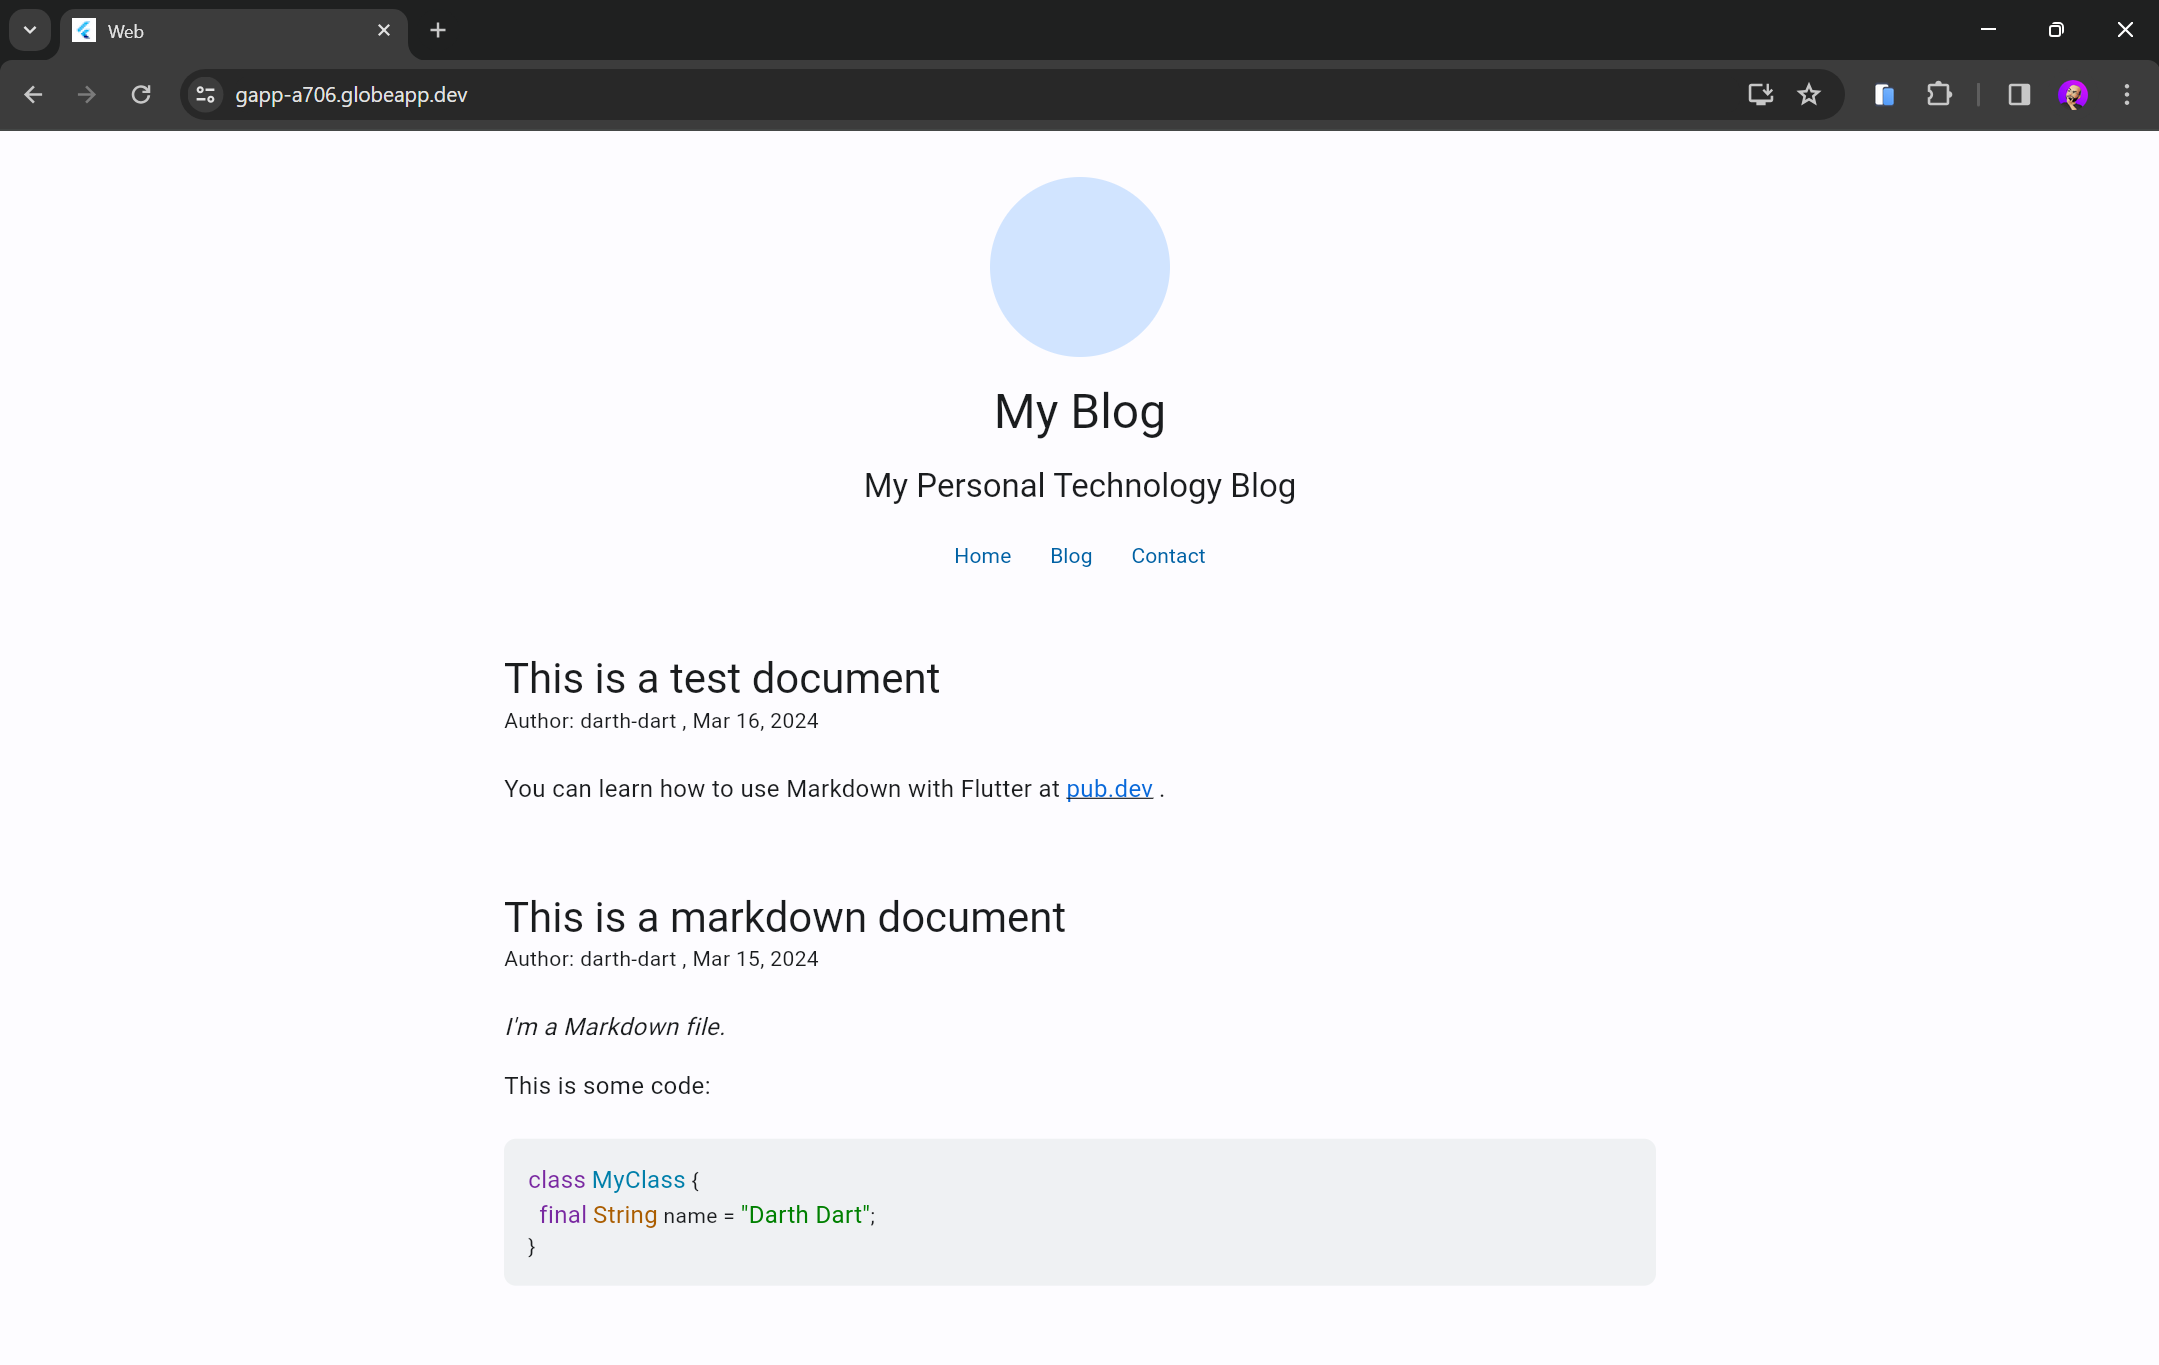
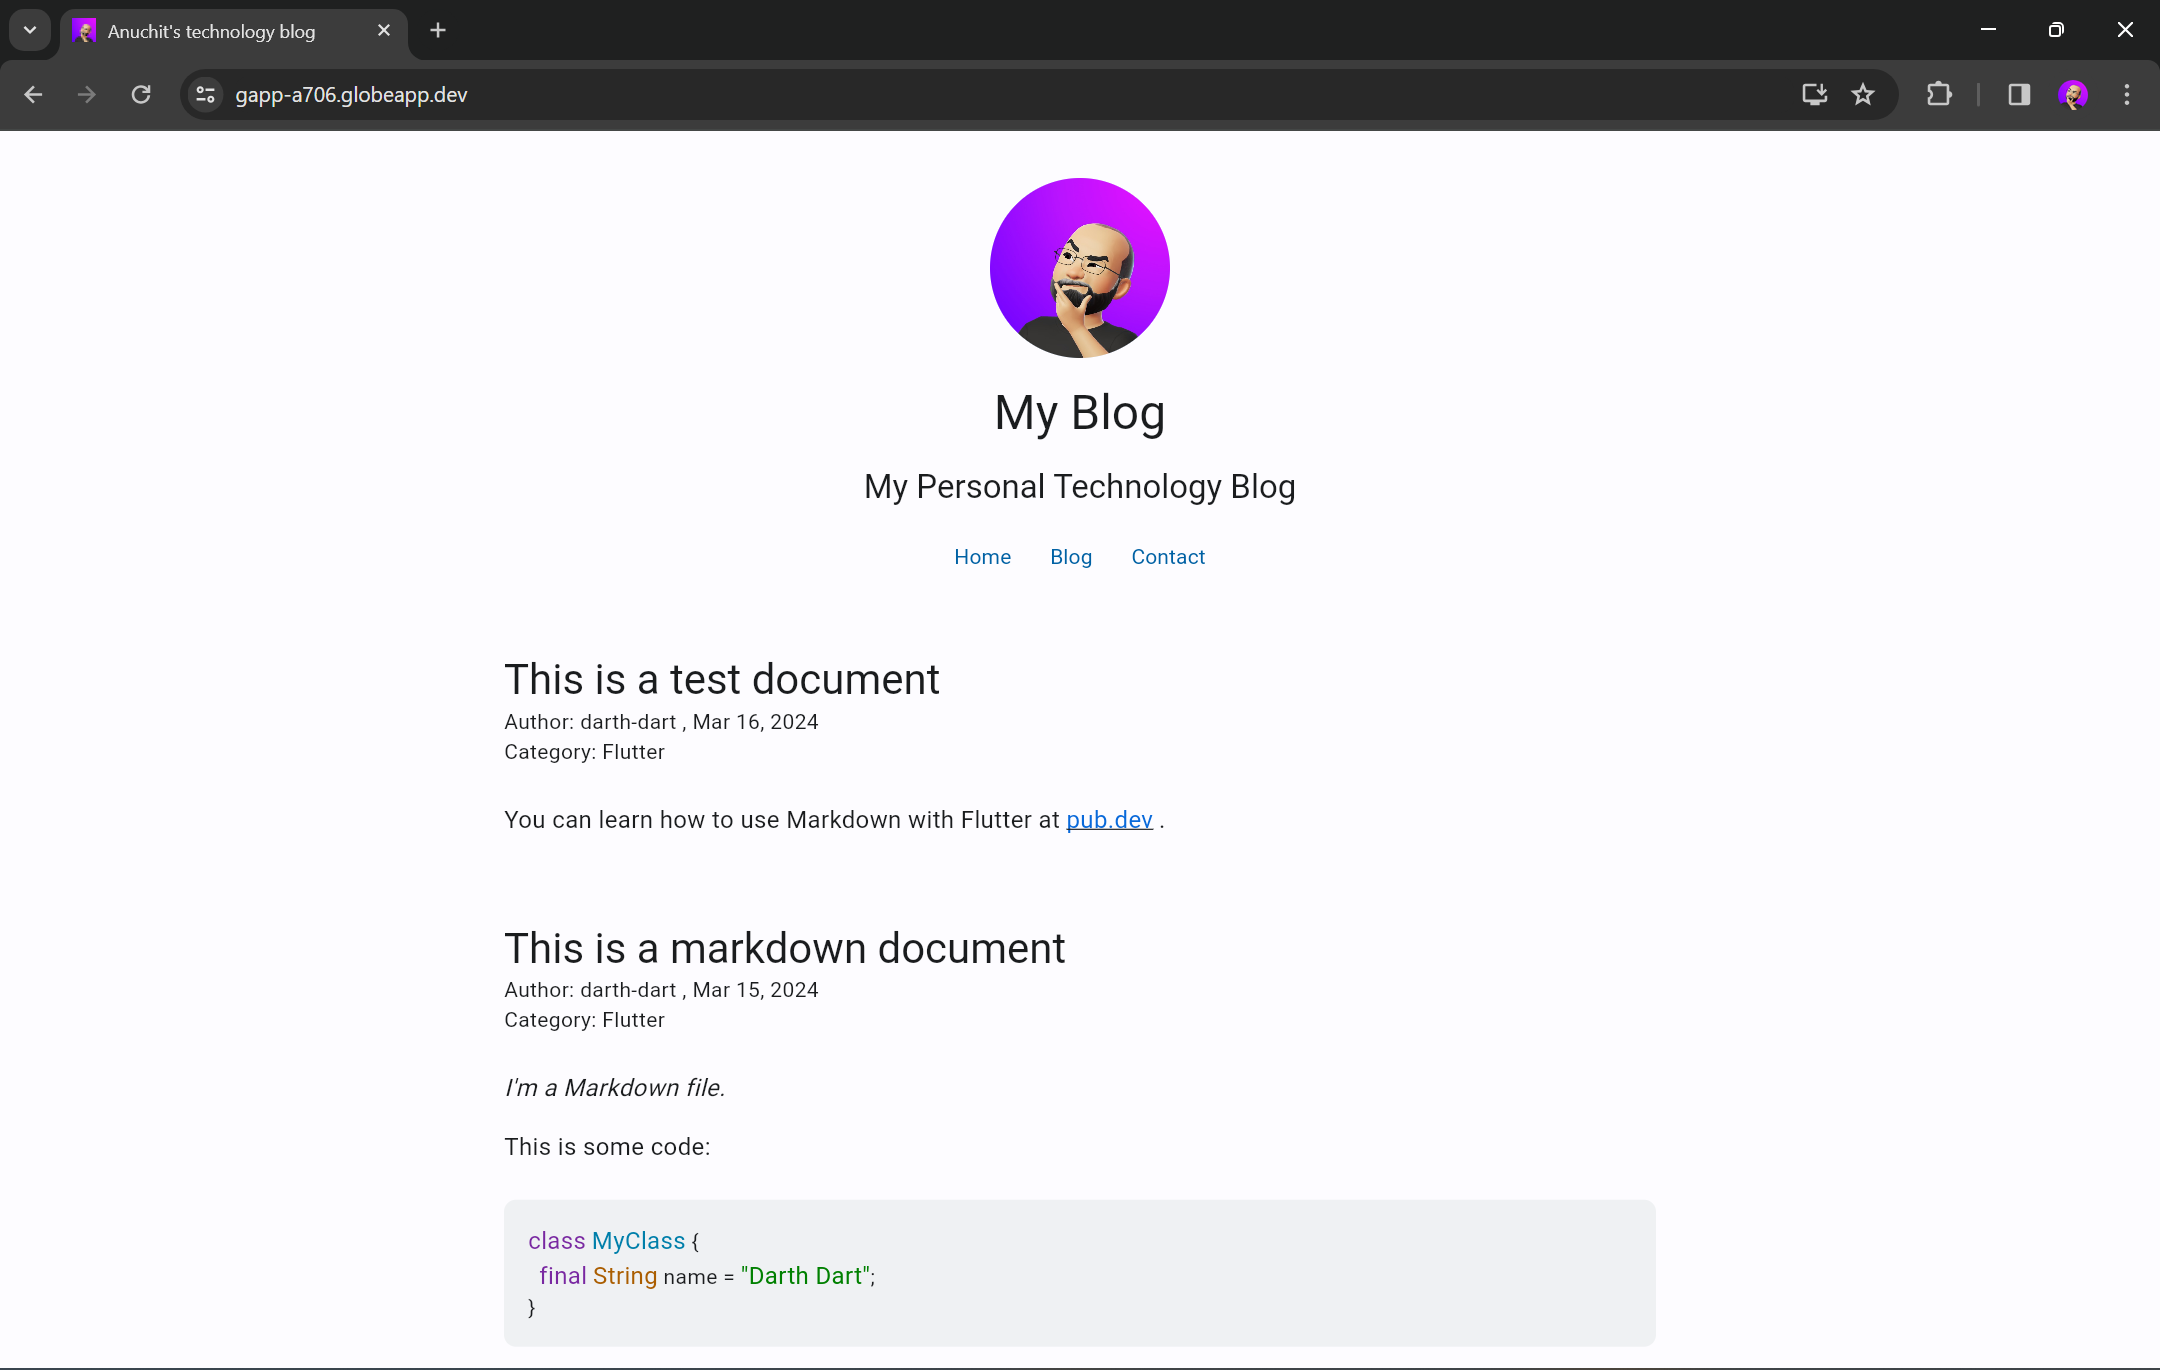
update meta for home screen

diff --git a/lib/app/routes/app_pages.dart b/lib/app/routes/app_pages.dart
@@ -1,6 +1,7 @@
 import 'package:flutter/foundation.dart';
 
 import 'package:get/get.dart';
+import 'package:mdsite/app/utils/meta_seo.dart';
 import 'package:meta_seo/meta_seo.dart';
 
 import '../../const.dart';
@@ -25,11 +26,7 @@ class AppPages {
     GetPage(
       name: _Paths.HOME,
       page: () {
-        if (kIsWeb) {
-          MetaSEO meta = MetaSEO();
-          meta.author(author: SEO_AUTHOR);
-          meta.description(description: SEO_DESCRIPTION);
-        }
+        setPageMeta(null);
         return const HomeView();
       },
       binding: HomeBinding(),
